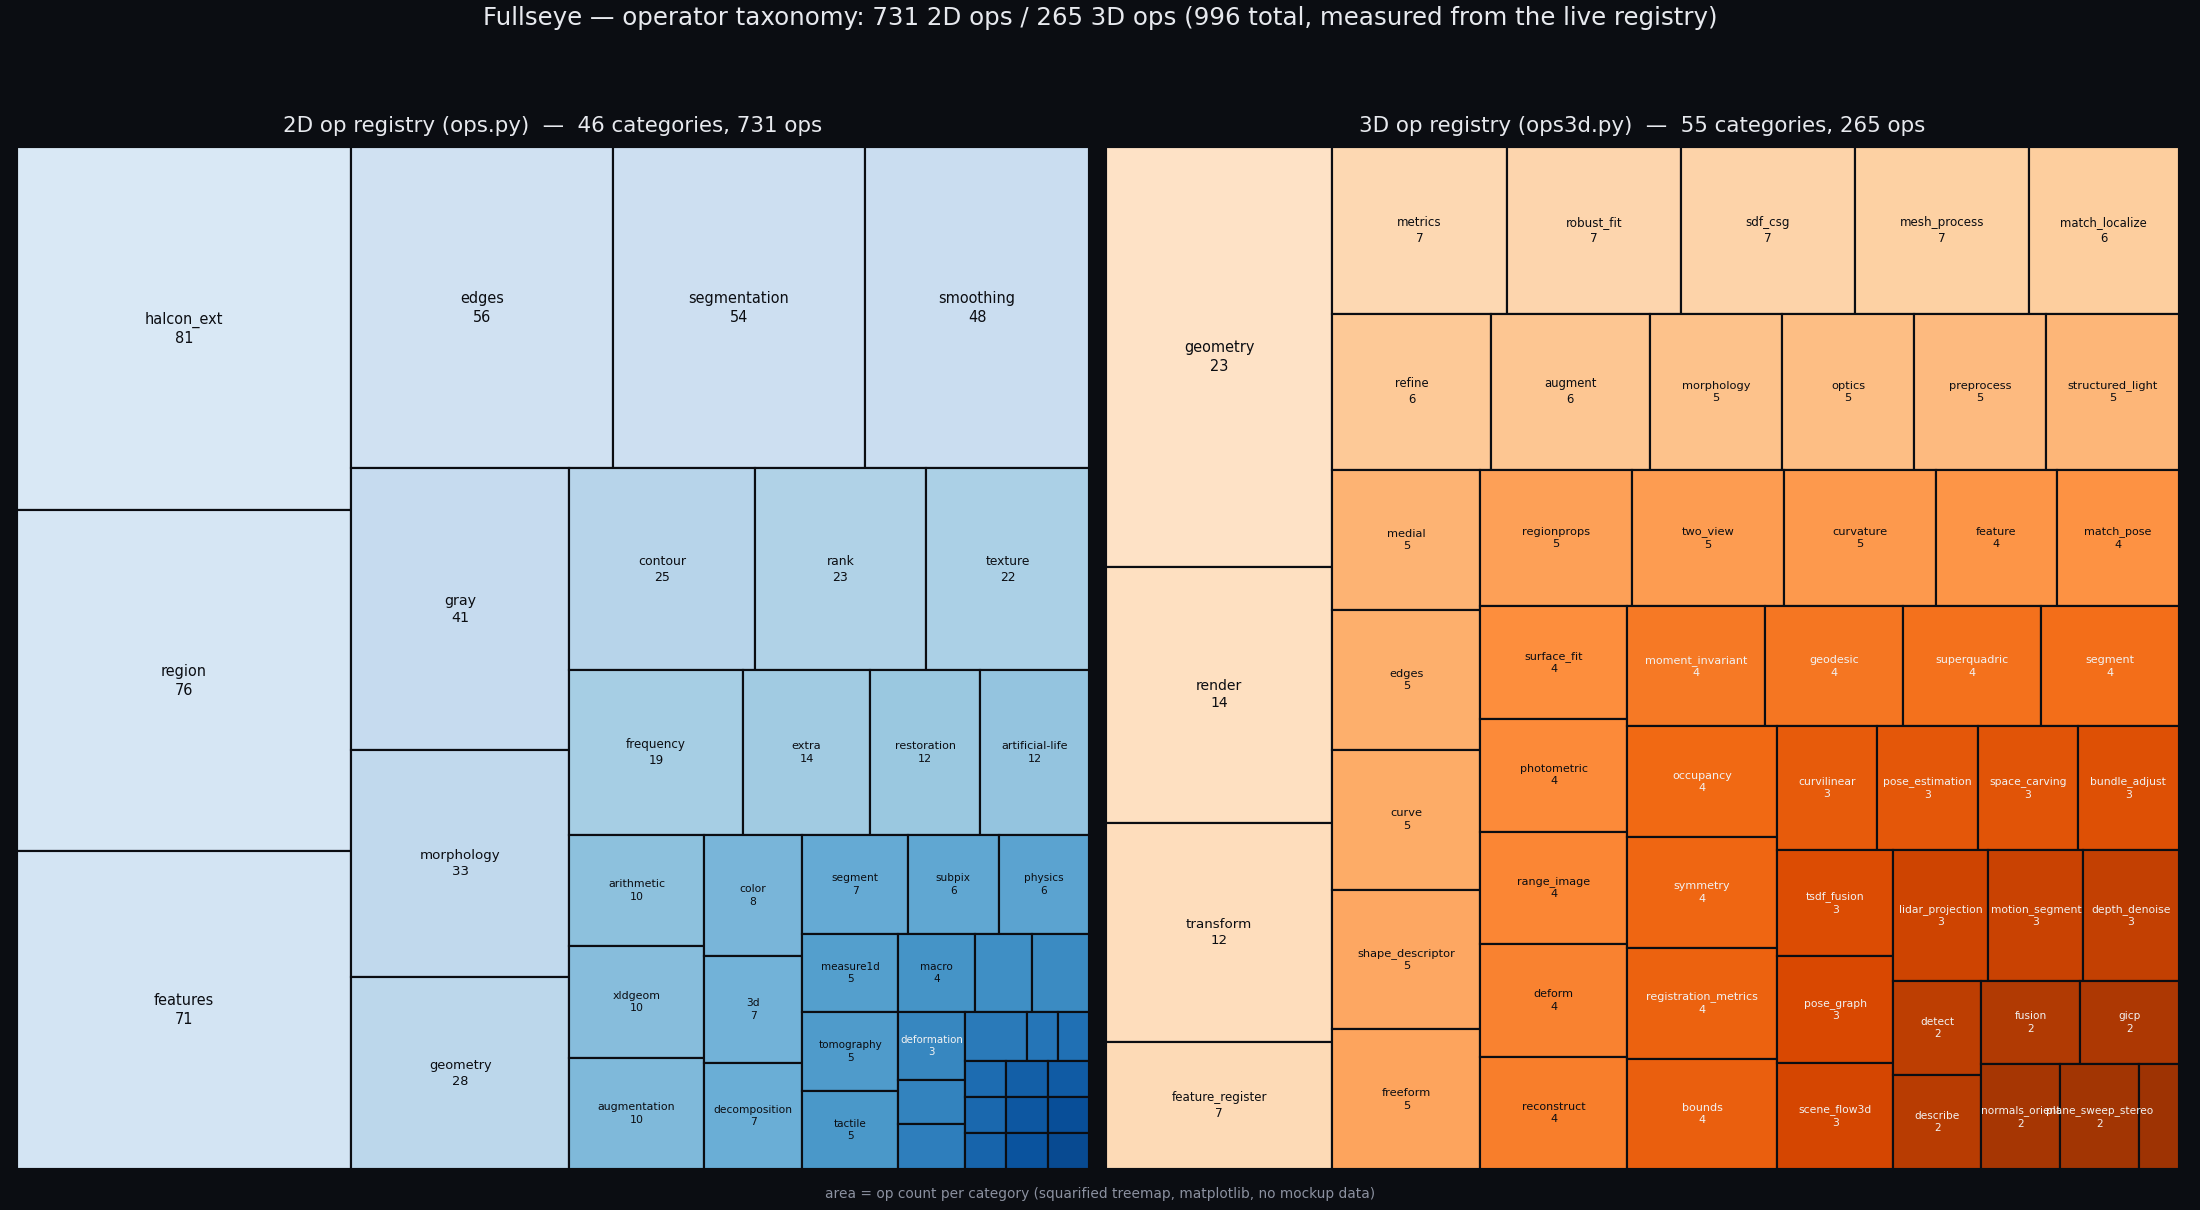
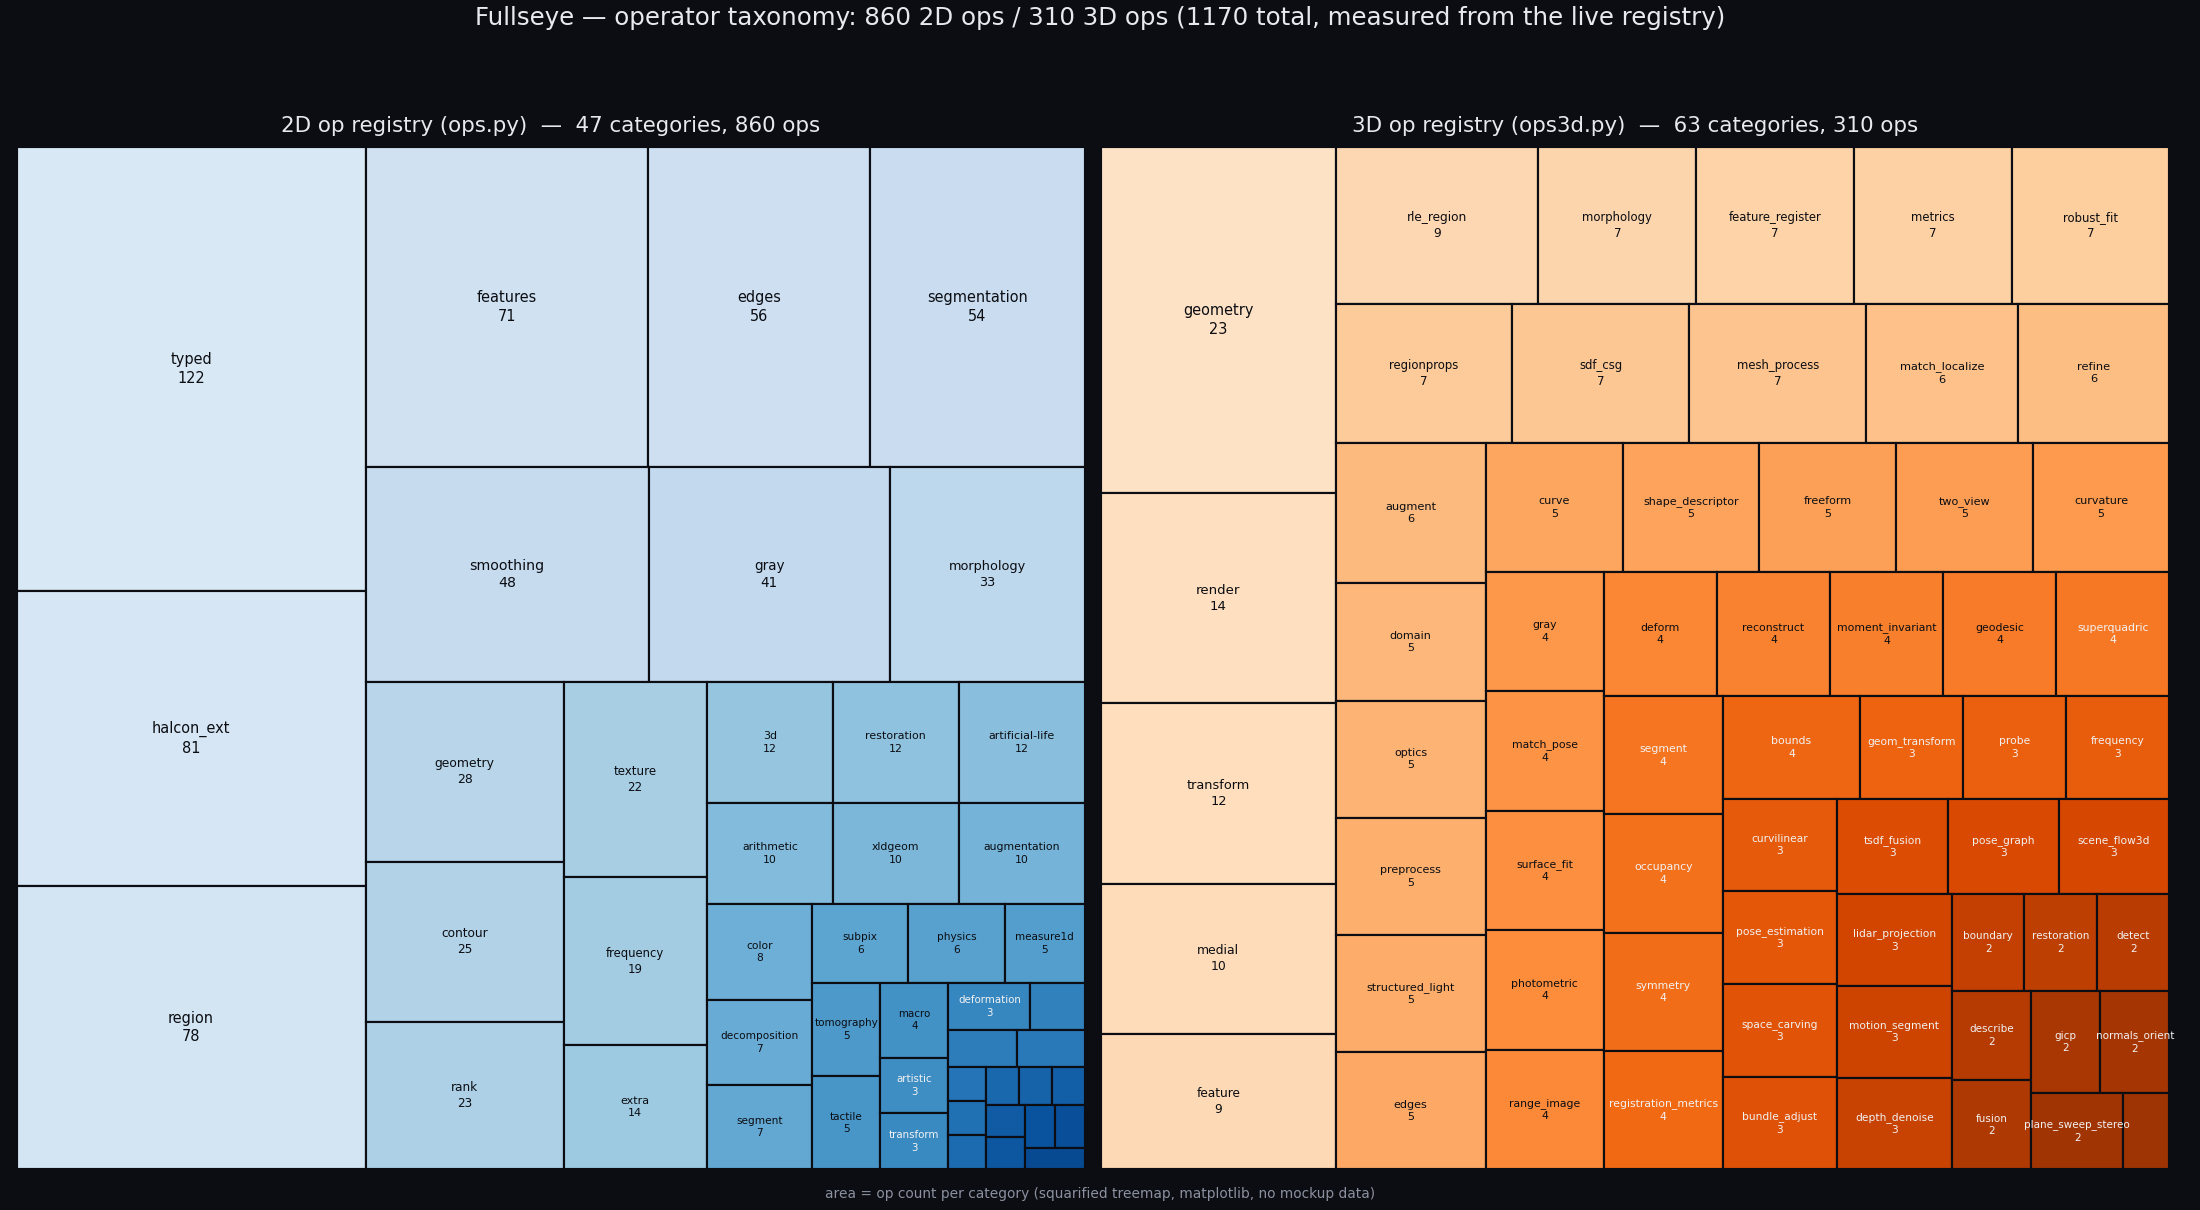
auto: caltab.py 編集前 (2026-09-03 02:18)

diff --git a/tools/gen_article_assets.py b/tools/gen_article_assets.py
@@ -45,6 +45,7 @@ Run:  py -3.11 tools/gen_article_assets.py
 from __future__ import annotations
 
 import os
+import re
 import shutil
 import sys
 
@@ -55,6 +56,7 @@ if REPO not in sys.path:
     sys.path.insert(0, REPO)
 
 ASSETS_DIR = os.path.join(REPO, "docs", "articles", "assets")
+ARTICLES_DIR = os.path.join(REPO, "docs", "articles")   # the two overview articles (published-number source)
 SOURCES_DIR = os.path.join(ASSETS_DIR, "_sources")
 THUMBS_DIR = os.path.join(ASSETS_DIR, "thumbs")
 MEDIA_DIR = os.path.join(ASSETS_DIR, "media")  # mp4/gif 動画置き場(GitHub blob リンク用)
@@ -707,6 +709,30 @@ def _treemap_rects(counts: dict, x, y, w, h):
     return list(zip(labels, [v for _, v in items], rects))
 
 
+_ARTICLE_COUNT_RE = {
+    "ja": re.compile(r"2D\s*(\d+)\s*\+\s*3D\s*(\d+)\s*の op"),
+    "en": re.compile(r"The\s+(\d+)\s+2-D\s*\+\s*(\d+)\s+3-D ops"),
+}
+
+
+def published_op_counts() -> dict:
+    """``{"ja": (n_2d, n_3d), "en": (n_2d, n_3d)}`` as written in the two overview articles.
+
+    The status table row is the canonical place ("2D 860 + 3D 310 の op" /
+    "The 860 2-D + 310 3-D ops"); a missing or unparsable row is an error, not a
+    default — an unverifiable number is not a verified one.
+    """
+    out = {}
+    for lang, rx in _ARTICLE_COUNT_RE.items():
+        path = os.path.join(ARTICLES_DIR, f"fullseye_overview_qiita_{lang}.md")
+        text = open(path, encoding="utf-8").read()
+        m = rx.search(text)
+        if not m:
+            raise AssertionError(f"could not find the op-count status row in {path}")
+        out[lang] = (int(m.group(1)), int(m.group(2)))
+    return out
+
+
 def build_op_taxonomy(log=print) -> dict:
     """ops.py(2D)+ops3d.py(3D)の実レジストリからカテゴリ別 op 数を集計し treemap を描く.
 
@@ -736,17 +762,24 @@ def build_op_taxonomy(log=print) -> dict:
     # Published-number gates as explicit raises (assert statements vanish under -O).
     if n_2d != len(ops.RT):
         raise AssertionError(f"2D op count {n_2d} != len(ops.RT) {len(ops.RT)}")
-    if n_2d != 731:
-        raise AssertionError(f"2D distinct op count drifted: {n_2d} (expected 731 per README/article)")
-    if len(counts_2d) != 46:
-        raise AssertionError(f"2D category count drifted: {len(counts_2d)} (expected 46)")
 
     counts_3d = Counter(m["category"] for m in ops3d.OPS3D.values())
     n_3d = sum(counts_3d.values())
-    if not (n_3d == len(ops3d.OPS3D) == 265):
-        raise AssertionError(f"3D op count drifted: {n_3d} (len(OPS3D)={len(ops3d.OPS3D)}, expected 265)")
-    if len(counts_3d) != 55:
-        raise AssertionError(f"3D category count drifted: {len(counts_3d)} (expected 55)")
+    if n_3d != len(ops3d.OPS3D):
+        raise AssertionError(f"3D op count {n_3d} != len(OPS3D) {len(ops3d.OPS3D)}")
+
+    # 公表数値ゲート: 記事本文(ja/en)に書かれた op 数が唯一の情報源。ここでハードコード
+    # していた 731/265 は 2026-09-02 時点で既に 861/310 に乖離しており、ゲートが図の生成を
+    # 止め続けていた。記事側の数字を正規表現で読み、実レジストリと突き合わせる —
+    # 数字を直す場所が「記事」1 か所になり、ツールは嘘を検出する側に回る。
+    pub = published_op_counts()
+    for lang, (p2, p3) in pub.items():
+        if (p2, p3) != (n_2d, n_3d):
+            raise AssertionError(
+                f"article ({lang}) says 2D {p2} / 3D {p3} but the live registry has "
+                f"2D {n_2d} / 3D {n_3d} — update docs/articles/fullseye_overview_qiita_{lang}.md")
+    log(f"op_taxonomy: published counts agree with the registry: 2D {n_2d} / 3D {n_3d} "
+        f"({len(counts_2d)} / {len(counts_3d)} categories)")
 
     bg, fg, muted = "#0b0d12", "#e7e9ee", "#8b91a0"
     fig, axes = plt.subplots(1, 2, figsize=(20, 11), facecolor=bg)

diff --git a/docs/articles/fullseye_overview_qiita_en.md b/docs/articles/fullseye_overview_qiita_en.md
@@ -11,7 +11,7 @@ This is a real point cloud of asteroid **25143 Itokawa** — the Gaskell shape m
 ## TL;DR
 
 - **Fullseye** (a pun on "Bullseye" — the dead center of a target) is a self-built library of classical image-processing and geometric-vision algorithms: **roughly 1,000 operators, implemented from scratch in numpy, sitting behind one typed interface**. The goal is to make "explainable vision" — vision whose internals you can actually account for — something you can carry around as the eyes of **Physical AI** (AI that acts in the physical world with a body, i.e. robots).
-- I use **HALCON**, the industrial machine-vision standard, as a "map of coverage." As measured, Fullseye has a self-built counterpart for **982 of 2,313 HALCON operators (42.5%)** — not a number from memory, but a mechanical tally against the operator list from the official reference.
+- I use **HALCON**, the industrial machine-vision standard, as a "map of coverage." As measured, Fullseye has a self-built counterpart for **981 of 2,313 HALCON operators (42.4%)** — not a number from memory, but a mechanical tally against the operator list from the official reference.
 - On top of the library sit an **evolutionary mode that "designs" algorithms through evolutionary computation**, a **Physical AI perception stack** that chains stereo → depth → point cloud → 6-DoF pose, and an **HDevelop-style IDE, Fullseye Studio**.
 - **The single most recommended way to use it is as an AI's RAG knowledge base.** Feed it to Claude Code or similar, and a plain conversational request like "detect X in this image" gets you a **pipeline assembled from ~1,000 ops, executed, with the results appearing on Studio's screen** — that's the foundation this is designed to be.
 - The undercurrent of this article is **making "honest disclosure" a mechanism** — never showing only the good numbers, never erasing failures, always stating the limitations. I include cases where the quality gates actually caught bugs, **including six I fixed just now**, exactly as they happened.
@@ -40,7 +40,7 @@ This is a long article, so let me sort **which claims sit at which stage** befor
 
 | Tier | Status label | What it covers in this article |
 |---|---|---|
-| **Implemented & reproducible** | `Production-ready / Verified` | The 731 2-D + 265 3-D ops, type contracts and the unified interface, Studio, the PyPI release, 6,238 tests, the machine-tallied 982/2,313 HALCON mapping, and the real outputs behind every exhibit and demo |
+| **Implemented & reproducible** | `Production-ready / Verified` | The 860 2-D + 310 3-D ops, type contracts and the unified interface, Studio, the PyPI release, 6,238 tests, the machine-tallied 981/2,313 HALCON mapping, and the real outputs behind every exhibit and demo |
 | **Under validation** | `PoC / Research prototype` | Evolutionary pipeline design (hold-out evaluated, bounded settings), natural-language-to-pipeline via RAG, and the Physical AI perception stack (validated in simulation; real hardware and sim-to-real are untouched) |
 | **Future vision** | `Roadmap / Design proposal` | A comprehensive op foundation for robots, an AI autonomously selecting and running the ~1,000 ops, and a shared perception base for industrial inspection and Physical AI |
 
@@ -162,7 +162,7 @@ Here is that "pick up a bean with chopsticks" experiment, seen through Fullseye'
 ```mermaid
 flowchart TB
     subgraph L0["Foundation: ~1,000 typed ops"]
-        OPS["The typed operator library<br/>731 2D ops + 265 3D ops<br/>hand-written numpy / wired together by type (sort)"]
+        OPS["The typed operator library<br/>860 2D ops + 310 3D ops<br/>hand-written numpy / wired together by type (sort)"]
     end
     subgraph L1["Two ways to use it"]
         APPLY["① Apply a known op<br/>fullseye.apply / run_pipeline"]
@@ -340,19 +340,19 @@ To avoid talking about "coverage" subjectively, I use the industrial-vision gian
 
 Let me pause on why a yardstick is needed at all. "There are about 1,000 ops" tells a reader nothing on its own — is that a lot, or a little? **The number 1,000 has no meaning until it's compared against something.** But declaring "it's comprehensive" subjectively would violate this article's undercurrent, honest disclosure. So the method I chose was: **measure with the same yardstick as the giant actually used in industry, and produce the number by mechanical tally**. I picked HALCON not merely because it's famous, but because **its operator list is organized and published as an official reference** — that is, for its high comparability.
 
-> **imgevolve maps to 982 / 2313 HALCON operators (42.5%)** — not from memory, but measured against the scraped list.
+> **imgevolve maps to 981 / 2313 HALCON operators (42.4%)** — not from memory, but measured against the scraped list.
 
 To be honest, that's **still under half**. Chapters like Tuple handling, System, Classification, and OCR are almost entirely untouched (they sit outside the core of image processing, so I've deprioritized them). Matching, Morphology, Filtering, and geometric measurement, on the other hand, are where I've built thick. The heart of this number is that **a per-chapter table showing "what's filled in and what's empty" stays open for anyone to see, at all times.**
 
 ### The Per-Chapter Map — Thick Spots and Empty Spots
 
-HALCON's 2,313 operators are divided into **30 chapters**. Fullseye's 982 counterparts are **not** spread evenly across them.
+HALCON's 2,313 operators are divided into **30 chapters**. Fullseye's 981 counterparts are **not** spread evenly across them.
 
 Where I've built thick is the chapters at the heart of image processing: **Filtering** (smoothing, edges, frequency-domain filters), **Morphology** (dilation, erosion, opening, closing), **Regions** (region operations and feature measurement), **Segmentation** (thresholding and region splitting), and **Matching** (template and deformable matching) — all painted **far denser** than the overall 42.5% average. The thin spots are chapters like **Tuple handling** (numeric-tuple operations, the programming-language side of HDevelop), **System** (process and thread control), and **Classification / OCR** (machine-learning-based classification and character recognition). Those are nearly untouched — that's the honest state of things.
 
 The skew described in words is disclosed as-is in a **per-chapter coverage bar chart** (the drawing script asserts agreement with the measured numbers in `docs/HALCON_COVERAGE.md`).
 
-[![HALCON per-chapter coverage — the breakdown of 982/2313 (42.5%) (click for full size)](https://raw.githubusercontent.com/furuse-kazufumi/fullseye/master/docs/articles/assets/thumbs/halcon_coverage_chart_720.jpg)](https://raw.githubusercontent.com/furuse-kazufumi/fullseye/master/docs/articles/assets/halcon_coverage_chart.png)
+[![HALCON per-chapter coverage — the breakdown of 981/2313 (42.4%) (click for full size)](https://raw.githubusercontent.com/furuse-kazufumi/fullseye/master/docs/articles/assets/thumbs/halcon_coverage_chart_720.jpg)](https://raw.githubusercontent.com/furuse-kazufumi/fullseye/master/docs/articles/assets/halcon_coverage_chart.png)
 
 *↑ The thick spots (Regions 105/106, Morphology 42/44, Filters 186/196) and the deliberately empty ones (System 0/141, OCR 0/96, Tuple 0/165) are visible at a glance.*
 
